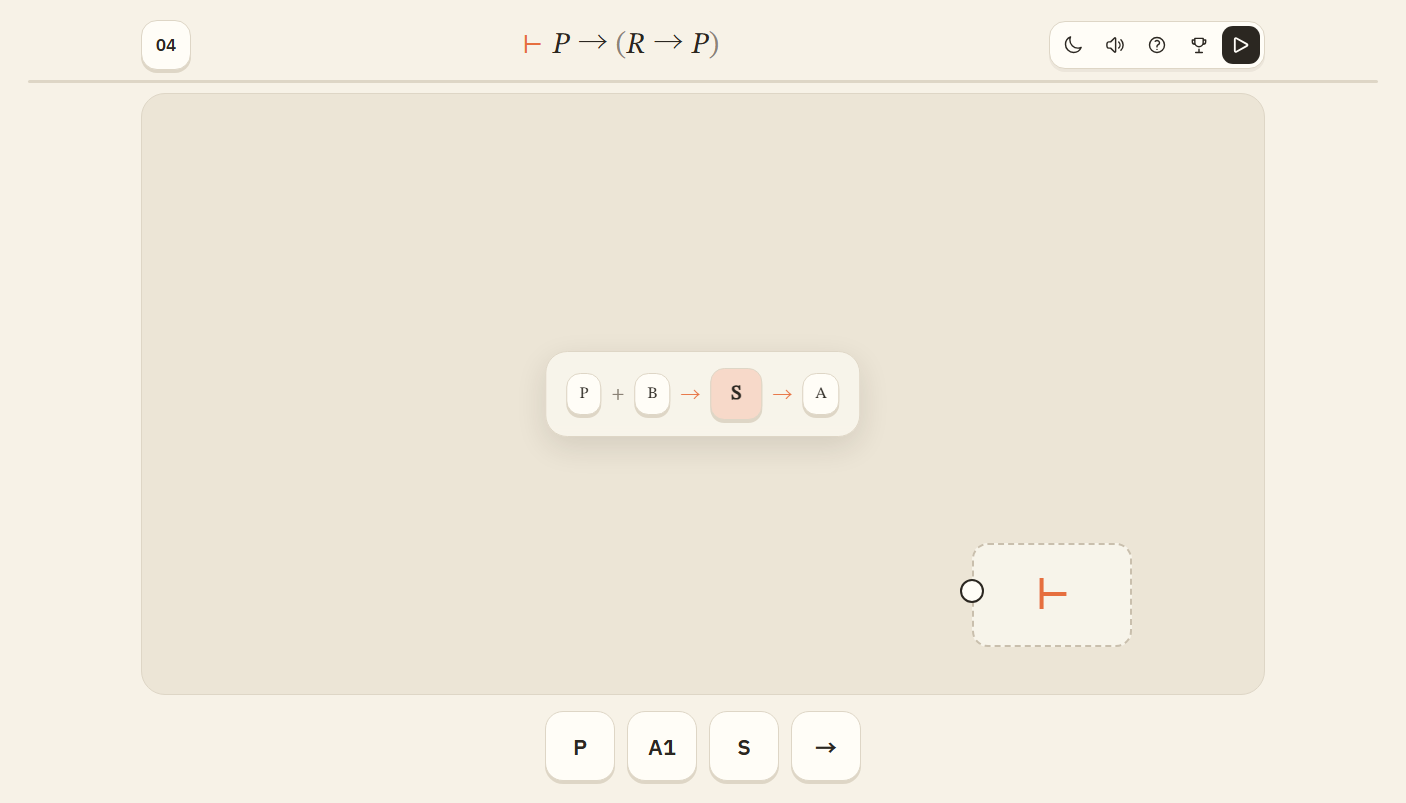
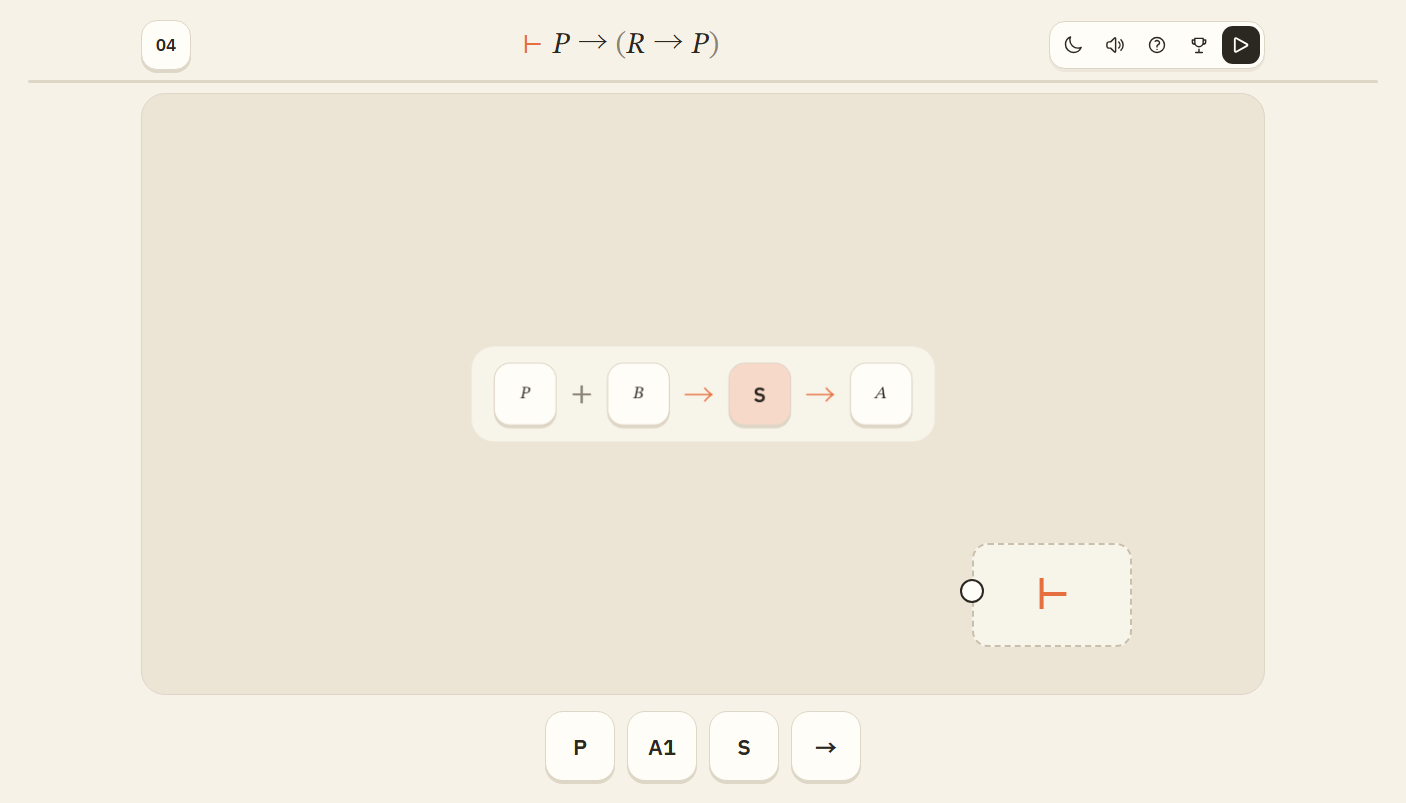
Fix palette placement, help typography, substitution ports, and routing quality

Changed region(s): [[0.3364, 0.4047, 0.6728, 0.5604]]

diff --git a/src/main.js b/src/main.js
@@ -308,6 +308,10 @@
   function showCoachKind(kind) {
     if (!COACH[kind]) return;
     els.coachPop.innerHTML = '<div class="coach-flow">' + COACH[kind] + '</div>';
+    els.coachPop.querySelectorAll('.chip').forEach(function (el) {
+      var html = esc(el.textContent).replace(/[A-Za-z]/g, '<span class="f-var">$&</span>');
+      el.innerHTML = '<span class="formula">' + html + '</span>';
+    });
     els.coachPop.hidden = false;
     sfx('click');
   }
@@ -527,6 +531,15 @@
     return ast ? formulaHTML(ast) : esc(text);
   }
 
+  function helpFormula(text) {
+    var html = esc(text).replace(/[A-Za-z]/g, '<span class="f-var">$&</span>');
+    return '<span class="formula help-formula">' + html + '</span>';
+  }
+
+  function helpCard(label, kind, formula) {
+    return '<div class="help-card" data-coach="' + kind + '"><b>' + esc(label) + '</b>' + helpFormula(formula) + '</div>';
+  }
+
   function toast(msg) {
     clearTimeout(toastTimer);
     els.toast.textContent = msg;
@@ -703,13 +716,19 @@
 
   function palettePlacePos(cx, cy, part) {
     var r = els.board.getBoundingClientRect();
-    if (cx < r.left || cx > r.right || cy < r.top || cy > r.bottom) return null;
+    var edge = 24;
+    if (cx < r.left - edge || cx > r.right + edge || cy < r.top - edge || cy > r.bottom + edge) return null;
     var p = state.board._client(cx, cy);
     var x = Math.max(0, Math.round((p.x - 116) / 16) * 16);
     var y = Math.max(0, Math.round((p.y - 50) / 16) * 16);
     var probe = { id: '__palette__', kind: part.kind };
-    if (state.board._overlaps(probe, x, y)) return null;
-    return { x: x, y: y };
+    var offsets = [[0, 0], [0, 32], [32, 0], [-32, 0], [0, 64], [64, 0], [32, 32], [-32, 32], [0, 96]];
+    for (var i = 0; i < offsets.length; i++) {
+      var px = Math.max(0, x + offsets[i][0]);
+      var py = Math.max(0, y + offsets[i][1]);
+      if (!state.board._overlaps(probe, px, py)) return { x: px, y: py };
+    }
+    return null;
   }
 
   function placePaletteAt(cx, cy) {
@@ -755,11 +774,11 @@
       '<div class="node-formula formula">' + formula + '</div>' +
       ins.map(function (p, i) {
         var role = (part.kind === 'subst' && p.id === 'atom') ? 'atom' : p.type;
-        return '<span class="port port-in" data-role="' + esc(role) + '" style="top:' + (47 + i * 32) + 'px"></span>';
+        return '<span class="port port-in" data-port="' + esc(p.id) + '" data-role="' + esc(role) + '" style="top:' + (47 + i * 32) + 'px"></span>';
       }).join('') +
       outs.map(function (p) {
         var role = part.kind === 'atom' ? 'atom' : p.type;
-        return '<span class="port port-out" data-role="' + esc(role) + '" style="top:47px"></span>';
+        return '<span class="port port-out" data-port="' + esc(p.id) + '" data-role="' + esc(role) + '" style="top:47px"></span>';
       }).join('');
     return el;
   }
@@ -973,10 +992,14 @@
           '<span class="help-box"><svg class="icon"><use href="#i-play"></use></svg></span>' +
         '</div>' +
         '<div class="help-cards">' +
-          '<div class="help-card" data-coach="subst"><b>S</b><span>P · B → A</span></div>' +
-          '<div class="help-card" data-coach="detach"><b>M</b><span>A · A→B → B</span></div>' +
-          '<div class="help-card" data-coach="replace"><b>D</b><span>A↔B ⇄ ¬A∨B</span></div>' +
-          '<div class="help-card" data-coach="all-intro"><b>∀</b><span>A(x) ⇄ ∀x A</span></div>' +
+          helpCard('S', 'subst', 'A · P+B · Q+C ⇒ A′') +
+          helpCard('M', 'detach', 'A · (A→B) ⇒ B') +
+          helpCard('D', 'replace', 'A→B ⇔ ¬A∨B') +
+          helpCard('HS', 'syllogism', '(A→B) · (B→C) ⇒ (A→C)') +
+          helpCard('∀I', 'all-intro', 'A ⇒ ∀x A') +
+          helpCard('∀E', 'all-elim', '∀x A ⇒ A[t/x]') +
+          helpCard('∃I', 'exists-intro', 'A[t/x] ⇒ ∃x A') +
+          helpCard('∃E', 'exists-elim', '∃x A · (A[y/x]→B) ⇒ B') +
         '</div>' +
         '<div class="save-row">' +
           '<button class="save-btn" data-save-export title="保存存档" aria-label="保存存档"><svg class="icon"><use href="#i-arrow-down-tray"></use></svg><span>保存</span></button>' +
@@ -1069,7 +1092,23 @@
       hideCoach();
       state.hintDismissed = true;
       if (els.coach) els.coach.hidden = true;
-      if (paletteHold && !(e.target.closest && (e.target.closest('.tile') || e.target.closest('#board')))) clearPaletteHold();
+      var onSurface = e.target.closest && (e.target.closest('.tile') || e.target.closest('#board'));
+      if (paletteHold && paletteHold.sticky && !onSurface) {
+        var br = els.board.getBoundingClientRect();
+        if (e.clientX >= br.left - 24 && e.clientX <= br.right + 24 && e.clientY >= br.top - 24 && e.clientY <= br.bottom + 24) {
+          e.preventDefault();
+          e.stopPropagation();
+          if (!placePaletteAt(e.clientX, e.clientY)) toast('放不下');
+          return;
+        }
+      }
+      if (paletteHold && !onSurface) clearPaletteHold();
+    }, true);
+    document.addEventListener('contextmenu', function (e) {
+      if (!paletteHold) return;
+      e.preventDefault();
+      e.stopPropagation();
+      clearPaletteHold();
     }, true);
     els.tray.addEventListener('pointerdown', function (e) {
       var tile = e.target.closest('.tile');

diff --git a/src/simple.css b/src/simple.css
@@ -135,6 +135,7 @@ button{font:inherit;color:inherit;border:0;background:none;padding:0;cursor:poin
 .port:hover{transform:translateY(-50%) scale(1.18)}
 .node.is-target .port-in{border-color:var(--accent);width:24px;height:24px;left:-12px}
 .node[data-state="error"] .port-in{border-color:var(--red)}
+.port-in[data-port="atom2"],.port-in[data-port="formula2"]{opacity:.55;border-style:dashed}
 
 /* wires */
 .wire{fill:none;stroke:var(--ink);stroke-width:2.5;stroke-linecap:round;stroke-linejoin:round;pointer-events:none}
@@ -152,7 +153,7 @@ button{font:inherit;color:inherit;border:0;background:none;padding:0;cursor:poin
 }
 .coach-tile{
   display:grid;place-items:center;width:62px;height:62px;border-radius:16px;
-  background:var(--card);border:1.5px solid var(--line);font-size:22px;font-weight:600;
+  background:var(--card);border:1.5px solid var(--line);font-family:var(--font);font-size:22px;font-weight:600;
   box-shadow:0 3px 0 var(--line);
 }
 .coach-arrow{font-family:var(--math);font-size:30px;color:var(--accent)}
@@ -546,9 +547,9 @@ html[data-theme="dark"] .level-cell.is-locked{box-shadow:inset 0 0 0 1px var(--l
 .help .help-dots{display:flex;gap:8px}
 .help .help-dots i{width:10px;height:10px;border-radius:50%;background:var(--accent-soft);box-shadow:inset 0 0 0 1.5px var(--accent)}
 .help .help-cards{display:grid;grid-template-columns:1fr 1fr;gap:10px;padding:12px 0 2px;width:100%;max-width:520px;min-width:0}
-.help .help-card{display:flex;flex-direction:row;align-items:center;gap:8px;padding:10px 12px;border-radius:14px;background:var(--soft);min-width:0;cursor:pointer}
-.help .help-card b{font-family:var(--math);font-size:19px;font-weight:600;color:var(--ink);min-width:18px;text-align:center;flex:none}
-.help .help-card span{font-family:var(--math);font-size:12px;line-height:1.35;color:var(--muted);min-width:0;overflow-wrap:anywhere}
+.help .help-card{display:flex;flex-direction:row;align-items:center;gap:10px;padding:10px 12px;border-radius:14px;background:var(--soft);min-width:0;cursor:pointer;font-family:var(--font)}
+.help .help-card b{font-family:var(--font);font-size:15px;font-weight:600;color:var(--ink);min-width:22px;text-align:center;flex:none}
+.help .help-formula{font-size:13px;line-height:1.4;color:var(--muted);min-width:0;overflow-wrap:anywhere}
 
 .win-len{display:flex;align-items:center;gap:8px;margin:-10px 0 10px;color:var(--muted);font-size:13px;font-weight:500}
 .win-len b{color:var(--ink);font-size:18px;font-weight:600}
@@ -593,17 +594,17 @@ html[data-theme="dark"] .level-cell.is-locked{box-shadow:inset 0 0 0 1px var(--l
 
 .coach-pop{
   position:absolute;left:50%;top:50%;z-index:9;transform:translate(-50%,-50%);
-  padding:16px 20px;border-radius:22px;background:var(--glass);border:1px solid var(--line);
-  box-shadow:0 10px 30px rgba(45,36,25,.12);cursor:default;
-  backdrop-filter:blur(6px);
-  animation:coach-pop .24s var(--ease);
+  padding:16px 22px;border-radius:22px;background:var(--glass);border:0;
+  box-shadow:none;cursor:default;backdrop-filter:blur(6px);max-width:calc(100vw - 32px);
+  animation:coach 2.2s ease-in-out infinite;
 }
 @keyframes coach-pop{from{opacity:0;transform:translate(-50%,-50%) scale(.94)}to{opacity:1;transform:translate(-50%,-50%) scale(1)}}
-.coach-flow{display:flex;align-items:center;gap:10px;font-family:var(--math);font-size:20px;color:var(--ink)}
-.coach-flow .chip{padding:10px 12px;border-radius:14px;background:var(--card);border:1.5px solid var(--line);box-shadow:0 3px 0 var(--line);font-size:16px;white-space:nowrap}
-.coach-flow .plus{color:var(--muted);font-size:18px}
-.coach-flow .arrow{color:var(--accent);font-size:20px}
-.coach-flow .coach-mod{display:grid;place-items:center;min-width:52px;height:52px;padding:0 10px;border-radius:14px;background:var(--accent-soft);color:var(--ink);font-weight:600;border:1.5px solid var(--line);box-shadow:0 3px 0 var(--line)}
+.coach-flow{display:flex;align-items:center;justify-content:center;flex-wrap:wrap;gap:14px;font-family:var(--font);font-size:20px;color:var(--ink)}
+.coach-flow .chip{display:grid;place-items:center;min-width:62px;height:62px;padding:0 12px;border-radius:16px;background:var(--card);border:1.5px solid var(--line);box-shadow:0 3px 0 var(--line);font-family:var(--math);font-size:17px;white-space:nowrap}
+.coach-flow .chip .formula{font-size:17px;color:inherit}
+.coach-flow .plus{font-family:var(--math);color:var(--muted);font-size:30px}
+.coach-flow .arrow{font-family:var(--math);color:var(--accent);font-size:30px}
+.coach-flow .coach-mod{display:grid;place-items:center;min-width:62px;height:62px;padding:0 10px;border-radius:16px;background:var(--accent-soft);color:var(--ink);font-family:var(--font);font-weight:600;font-size:20px;border:1.5px solid var(--line);box-shadow:0 3px 0 var(--line)}
 .help .help-steps{display:flex;flex-direction:row;align-items:center;gap:12px;padding:12px 0 20px}
 .help .help-box{display:grid;place-items:center;width:58px;height:58px;border-radius:16px;background:var(--soft);font-size:26px;color:var(--ink)}
 .help .help-box .icon{width:24px;height:24px;stroke-width:2}

diff --git a/src/board.js b/src/board.js
@@ -468,7 +468,7 @@
     var fromId = this.draft && this.draft.from ? this.draft.from.node : null;
     var group = this.draft && this.draft.from ? (this.draft.from.node + '|' + this.draft.from.port) : '';
     var start = { x: a.x + 26, y: a.y };
-    var pts = this._route(start, b, this._rects(), {}, fromId, null, group);
+    var pts = this._route(start, b, this._rects(), this._lastUsed || {}, fromId, null, group);
     pts.unshift({ x: a.x, y: a.y });
     d.setAttribute('d', this._pathPoints(pts));
   };
@@ -540,7 +540,7 @@
 
   /* A* on a 16px grid: bend penalty + reuse penalty, but only between different output networks. */
   Board.prototype._route = function (a, b, rects, used, fromId, toId, group) {
-    var CELL = 16;
+    var CELL = 12;
     var xs = [a.x, b.x], ys = [a.y, b.y];
     rects.forEach(function (r) { xs.push(r.x - 28, r.x + r.w + 28); ys.push(r.y - 28, r.y + r.h + 28); });
     var minX = Math.floor((Math.min.apply(null, xs) - 180) / CELL) * CELL;
@@ -632,7 +632,7 @@
             if (groups.hasOwnProperty(gk) && gk !== String(group || '')) { reuse = 1; break; }
           }
         }
-        var cost = 1 + (nd === (dir + 2) % 4 ? 0 : (nd !== dir ? 3 : 0)) + reuse * 64;
+        var cost = 1 + (nd === (dir + 2) % 4 ? 4 : (nd !== dir ? 8 : 0)) + reuse * 64;
         var ndist = dist[state] + cost;
         if (ndist < dist[nstate]) {
           dist[nstate] = ndist;
@@ -662,7 +662,39 @@
     var pts = [{ x: a.x, y: a.y }];
     cells.forEach(function (p) { if (p.x !== a.x || p.y !== a.y) pts.push(p); });
     pts.push({ x: b.x, y: b.y });
-    return this._simplify(pts);
+    return this._shortcut(this._simplify(pts), rects);
+  };
+
+  /* 用清晰的两段折线把 A* 的锯齿和多余拐点收掉。 */
+  Board.prototype._shortcut = function (pts, rects) {
+    if (!pts || pts.length < 3) return pts;
+    var self = this;
+    function clear(p, q) { return self._segmentClear(p, q, rects); }
+    function lpath(p, q) {
+      if (p.x === q.x || p.y === q.y) return clear(p, q) ? [p, q] : null;
+      var c1 = { x: q.x, y: p.y };
+      if (clear(p, c1) && clear(c1, q)) return [p, c1, q];
+      var c2 = { x: p.x, y: q.y };
+      if (clear(p, c2) && clear(c2, q)) return [p, c2, q];
+      return null;
+    }
+    var out = pts.slice();
+    for (var pass = 0; pass < 24; pass++) {
+      var changed = false;
+      for (var i = 0; i < out.length - 2; i++) {
+        var target = null;
+        for (var j = out.length - 1; j > i + 1; j--) {
+          var lp = lpath(out[i], out[j]);
+          if (lp) { target = { j: j, path: lp }; break; }
+        }
+        if (!target) continue;
+        out = out.slice(0, i + 1).concat(target.path.slice(1, -1), [out[target.j]], out.slice(target.j + 1));
+        changed = true;
+        break;
+      }
+      if (!changed) break;
+    }
+    return out;
   };
 
   Board.prototype._segmentClear = function (p, q, rects) {
@@ -760,6 +792,7 @@
       hit.dataset.edge = e.id;
       self.wires.appendChild(hit);
     });
+    this._lastUsed = used;
     if (this.draft) {
       var from = this._portPoint(this.draft.from.node, this.draft.from.port);
       if (from) this._draftPath(from, { x: this.draft.x, y: this.draft.y });

diff --git a/tests/simple-smoke.js b/tests/simple-smoke.js
@@ -48,7 +48,7 @@ async function main() {
   await js('window.RSL.APP.loadLevel(0)'); await sleep(250);
   console.log('saved-circuit', await js('document.querySelectorAll(".node:not(.is-target)").length'));
   await js('window.RSL.APP.loadLevel(1)'); await sleep(250);
-  const pal = await js(`(function(){var t=document.querySelector('.tile'),b=document.getElementById('board');var tr=t.getBoundingClientRect(),br=b.getBoundingClientRect();return {tx:tr.left+tr.width/2,ty:tr.top+tr.height/2,bx:br.left+90,by:br.top+90};})()`);
+  const pal = await js(`(function(){var t=document.querySelector('.tile'),b=document.getElementById('board');var tr=t.getBoundingClientRect(),br=b.getBoundingClientRect();return {tx:tr.left+tr.width/2,ty:tr.top+tr.height/2,bx:br.left+90,by:br.top-12};})()`);
   await send('Input.dispatchMouseEvent', { type: 'mousePressed', x: pal.tx, y: pal.ty, button: 'left', clickCount: 1 });
   await send('Input.dispatchMouseEvent', { type: 'mouseReleased', x: pal.tx, y: pal.ty, button: 'left', clickCount: 1 });
   await sleep(180);
@@ -57,6 +57,13 @@ async function main() {
   await send('Input.dispatchMouseEvent', { type: 'mouseReleased', x: pal.bx, y: pal.by, button: 'left', clickCount: 1 });
   await sleep(250);
   console.log('palette-sticky', await js('({ghostBefore:' + ghost1 + ',ghostAfter:!!document.querySelector(".module-ghost"),nodes:document.querySelectorAll(".node:not(.is-target)").length})'));
+  await send('Input.dispatchMouseEvent', { type: 'mousePressed', x: pal.tx, y: pal.ty, button: 'left', clickCount: 1 });
+  await send('Input.dispatchMouseEvent', { type: 'mouseReleased', x: pal.tx, y: pal.ty, button: 'left', clickCount: 1 });
+  await sleep(150);
+  const ghost2 = await js('!!document.querySelector(".module-ghost")');
+  await js('document.dispatchEvent(new MouseEvent("contextmenu",{bubbles:true,cancelable:true}))');
+  await sleep(120);
+  console.log('palette-right-cancel', await js('({before:' + ghost2 + ',after:!!document.querySelector(".module-ghost")})'));
   await js('document.getElementById("levelBtn").click()'); await sleep(300);
   console.log('level cells', await js('document.querySelectorAll(".level-cell").length'));
   console.log('locks', await js('Array.from(document.querySelectorAll(".chapter")).filter(function(c){return c.classList.contains("is-locked")||c.classList.contains("is-current");}).map(function(c){var b=c.querySelector(".level-cell");return {roman:c.querySelector(".chapter-roman").textContent,cls:c.className,first:b&&b.className,firstDisabled:b&&b.disabled};})'));

diff --git a/src/engine.js b/src/engine.js
@@ -59,7 +59,9 @@
         inputs: [
           { id: 'assertion', label: '断言 A', type: 'assertion' },
           { id: 'atom', label: '原子 π', type: 'formula' },
-          { id: 'formula', label: '公式 B', type: 'formula' }
+          { id: 'formula', label: '公式 B', type: 'formula' },
+          { id: 'atom2', label: '原子 ρ（可选）', type: 'formula' },
+          { id: 'formula2', label: '公式 C（可选）', type: 'formula' }
         ],
         outputs: [{ id: 'out', label: 'A[π/B]', type: 'assertion' }]
       },
@@ -290,10 +292,24 @@
           if (!need('assertion') || !need('atom') || !need('formula')) return waiting();
           if (!L.isAtom(vals.atom)) return makeResult(node, null, 'error', '第二路输入必须是单个原子命题');
           var atomName = vals.atom.name;
+          var map = Object.create(null);
+          map[atomName] = vals.formula;
           var atoms = L.atomsOf(vals.assertion).map(function (a) { return typeof a === 'string' ? a : a.name; });
           if (atoms.indexOf(atomName) === -1) return makeResult(node, null, 'error', '原子 ' + atomName + ' 没有出现在断言中');
-          var out = L.substitute(vals.assertion, atomName, vals.formula);
-          return makeResult(node, out, 'valid', null, atomName + ' := ' + L.fmt(vals.formula), { mapping: { atom: atomName, formula: vals.formula } });
+          var secondAtom = !!vals.atom2 || !!vals.formula2;
+          if (secondAtom && (!vals.atom2 || !vals.formula2)) {
+            return makeResult(node, null, 'error', '第二组代入需要同时接原子和公式');
+          }
+          if (secondAtom) {
+            if (!L.isAtom(vals.atom2)) return makeResult(node, null, 'error', '第二组原子必须是单个原子命题');
+            var atomName2 = vals.atom2.name;
+            if (atomName2 === atomName) return makeResult(node, null, 'error', '两组代入不能使用同一个原子');
+            if (atoms.indexOf(atomName2) === -1) return makeResult(node, null, 'error', '原子 ' + atomName2 + ' 没有出现在断言中');
+            map[atomName2] = vals.formula2;
+          }
+          var out = L.instantiate(vals.assertion, map);
+          var label = Object.keys(map).map(function (k) { return k + ' := ' + L.fmt(map[k]); }).join('，');
+          return makeResult(node, out, 'valid', null, label, { mapping: map });
         }
         case 'replace': {
           if (!need('assertion')) return waiting();

diff --git a/src/library.js b/src/library.js
@@ -190,7 +190,7 @@
     { key: 'term', kind: 'term', group: 'predicate', symbol: 'x', name: '个体词', code: 'U-TERM', desc: '提供个体变元 x、y、z 或常元 a、b、c。', accent: 'copper' },
     { key: 'quant', kind: 'quant', group: 'predicate', symbol: '∀', name: '量词门', code: 'U-QNT', desc: '输入公式，输出 ∀x 或 ∃x 量化式。', accent: 'copper' },
 
-    { key: 'subst', kind: 'subst', group: 'rule', symbol: 'S', name: '代入规则', code: 'R-SUB', desc: '断言 + 原子 π + 公式 B → 把 π 全部换成 B。', accent: 'copper' },
+    { key: 'subst', kind: 'subst', group: 'rule', symbol: 'S', name: '代入规则', code: 'R-SUB', desc: '断言 + 一组或两组 原子/公式 → 同时完成一到两个变元的代入。', accent: 'copper' },
     { key: 'replace', kind: 'replace', group: 'rule', symbol: 'D', name: '定义置换', code: 'R-DEF', desc: '按 df-or / df-an / dfbi2 / df-ex 双向往返。', accent: 'copper' },
     { key: 'detach', kind: 'detach', group: 'rule', symbol: 'M', name: '分离规则', code: 'R-MP', desc: 'A 与 A→B 两路断言输入，输出 B。', accent: 'copper' },
     { key: 'all-elim', kind: 'all-elim', group: 'predicate', symbol: '∀E', name: '全称例化', code: 'R-∀E', desc: '从 ∀x A 得到 A[t/x]。', accent: 'copper' },

diff --git a/README.md b/README.md
@@ -32,7 +32,7 @@
 3. **校验**：把最终断言接到右侧的 `⊢`，点顶栏最右边的播放键。
 4. **修改**：右键删除模块或导线，触屏长按删除；点模块可以改参数。
 
-进入关卡时会弹一次规则提示，只画“输入 → 模块 → 输出”；第一次左键操作后自动消失，不显示本关答案。
+进入关卡时会弹一次规则提示，只画“输入 → 模块 → 输出”；第一次左键操作后自动消失，不显示本关答案。S 代入可以同时接两组“原子 + 公式”，一次换两个变元。帮助页里还有 S/M/D/HS/∀I/∀E/∃I/∃E 的公式图示，点卡片可以重新看提示。
 
 ## 关卡
 
